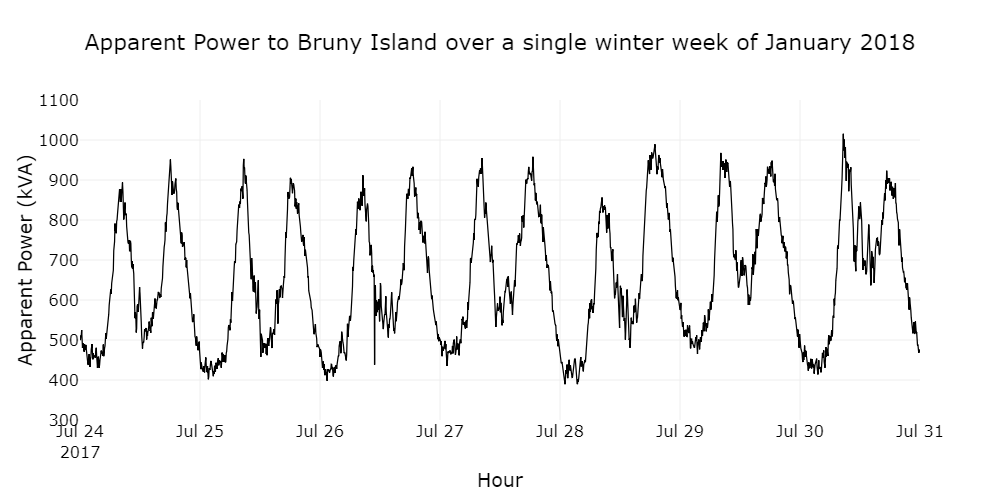
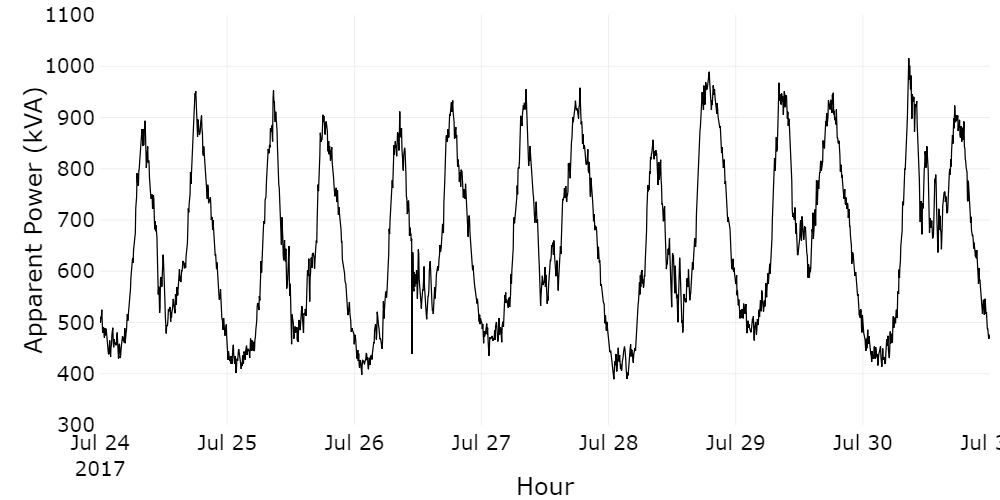
updated figures

diff --git a/case-study.tex b/case-study.tex
@@ -56,15 +56,15 @@ Some observations are immediately obvious
 \begin{figure}[htbp]
 	\centering
 	\subfigure[]{
-		\includegraphics[width=.7\textwidth]{images/simple-week-summer}
+		\includegraphics[width=0.8\textwidth]{images/simple-week-summer}
 		\label{fig:simple-week-summer}}
 	\vfil
 	\subfigure[]{
-		\includegraphics[width=.7\textwidth]{images/simple-week-winter}
+		\includegraphics[width=0.8\textwidth]{images/simple-week-winter}
 		\label{fig:simple-week-winter}}
 	\vfil
 	\subfigure[]{
-		\includegraphics[width=.7\textwidth]{images/max-load-max-temp}
+		\includegraphics[width=0.8\textwidth]{images/max-load-max-temp}
 		\label{fig:max-load-max-temp}}
 	\caption{Bruny Island load profiles. (a) Load over a single summer week in 2018. (b) Load over a single winter week in 2017. (c) Peak daily load and peak daily temperature over all of 2017.}
 	\label{fig:load-profiles}
@@ -82,15 +82,15 @@ Likewise, many cars leave the island on Sunday afternoon, shifting the load prof
 \begin{figure}[htbp]
 	\centering
 	\subfigure[]{
-		\includegraphics[width=.7\textwidth]{images/average-profiles}
+		\includegraphics[width=.8\textwidth]{images/average-profiles}
 		\label{fig:average-profiles}}
 	\vfil
 	\subfigure[]{
-		\includegraphics[width=.7\textwidth]{images/average-arriving}
+		\includegraphics[width=.8\textwidth]{images/average-arriving}
 		\label{fig:average-arriving}}
 	\vfil
 	\subfigure[]{
-		\includegraphics[width=.7\textwidth]{images/average-departing}
+		\includegraphics[width=.8\textwidth]{images/average-departing}
 		\label{fig:average-departing}}
 	\caption{Bruny Island average load profiles. (a) Average load profiles for each day of the week. Average number of cars arriving on (b) and leaving (c) the island each day.}
 	\label{fig:average-load-profiles}
